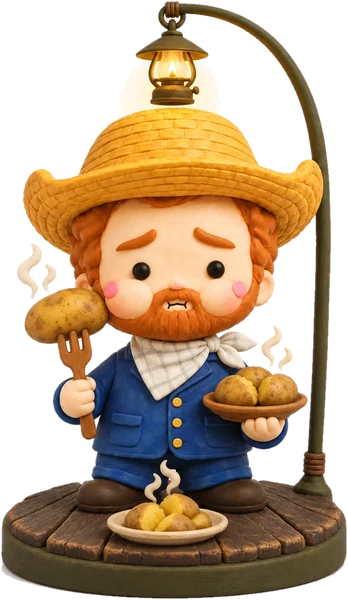
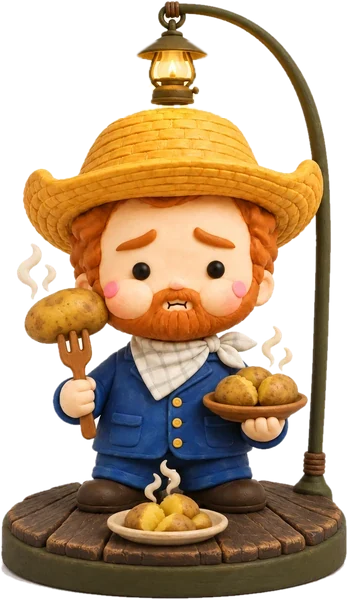
接火雞：收集冊畫面、梵谷重新去背、坐長桌說明改清楚；走格子正式版不再放示範假樹（PARK_VER 20261115v）

Changed region(s): [[0.3448, 0.06, 0.4598, 0.21], [0.546, 0.06, 0.6322, 0.21], [0.4885, 0.15, 0.5172, 0.18]]

diff --git a/catch-demo.html b/catch-demo.html
@@ -76,6 +76,7 @@ button:focus-visible{outline:3px solid var(--ink);outline-offset:2px}
 .stBtns{display:flex;gap:10px;width:100%;max-width:360px}
 .stBtns button{flex:1;height:48px;border-radius:24px;font-size:16px;font-weight:700}
 #stSkip{background:transparent;border:2px solid #6b5432;color:#d9b77a}
+#stBook{background:transparent;border:2px solid #c9a35a;color:#ffcf6b;flex:0 0 auto!important;padding:0 16px}
 #stNext{border:0;background:var(--pumpkin);color:#fff;box-shadow:0 4px 0 var(--leaf)}
 .voice{font-size:12px;color:#9c8460}
 /* 結局 */
@@ -125,6 +126,33 @@ button:focus-visible{outline:3px solid var(--ink);outline-offset:2px}
 @keyframes flash{0%{opacity:1}100%{opacity:0}}
 
 /* 拍合照（臉洞看板） */
+/* 11/15 梵谷公仔收集冊 */
+#btnBook{width:100%;max-width:400px;height:46px;border-radius:23px;border:2px solid #ffcf6b;background:transparent;color:#ffcf6b;font-size:16px;font-weight:800;flex:none}
+#vgBk{position:fixed;inset:0;z-index:90;background:#2a1d14;overflow-y:auto;-webkit-overflow-scrolling:touch;color:#3b2416}
+#vgBk .in{max-width:440px;margin:0 auto;padding:calc(env(safe-area-inset-top,0px) + 14px) 14px calc(env(safe-area-inset-bottom,0px) + 24px)}
+#vgBk .top{display:flex;align-items:center;justify-content:space-between;color:#f3e6c8;margin-bottom:10px}
+#vgBk .top h2{margin:0;font-size:20px}#vgBk .top b{color:#ffcf6b}
+#vgBk .x{border:0;background:rgba(255,255,255,.12);color:#f3e6c8;border-radius:18px;height:36px;padding:0 14px;font-size:15px;font-weight:700}
+#vgBk .sub{color:#c9b38a;font-size:13px;margin:0 0 12px;line-height:1.6}
+#vgBk .grid{display:grid;grid-template-columns:1fr 1fr;gap:10px}
+#vgBk .vgc{background:#fbf6ea;border-radius:14px;padding:10px 10px 12px;text-align:center;position:relative;box-shadow:0 3px 0 #c9a35a}
+#vgBk .vgc.no{background:#e9dfcc;box-shadow:none}
+#vgBk .lv{position:absolute;left:8px;top:8px;background:#e2711d;color:#fff;font-size:11px;font-weight:800;border-radius:10px;padding:2px 8px}
+#vgBk .vgc.no .lv{background:#8a6a4a}
+#vgBk .pic{height:150px;display:flex;align-items:flex-end;justify-content:center;margin:6px 0 4px;position:relative}
+#vgBk .pic img{max-height:150px;max-width:100%}
+#vgBk .vgc.no .pic img{filter:brightness(0);opacity:.22}
+#vgBk .vgc.no .pic:after{content:'?';position:absolute;top:38%;left:50%;transform:translate(-50%,-50%);font-size:44px;font-weight:900;color:#8a6a4a}
+#vgBk .nm{font-weight:900;font-size:14px;line-height:1.35;min-height:38px;display:flex;align-items:center;justify-content:center}
+#vgBk .how{font-size:12px;color:#6b5238;line-height:1.5;margin-top:4px}
+#vgBk .vgbar{width:auto;height:7px;background:#d6c7ab;border-radius:4px;margin:6px 4px 2px;overflow:hidden}#vgBk .vgbar i{display:block;height:100%;background:#e2711d}
+#vgBk .ok{font-size:12px;color:#2f7a3a;font-weight:800;margin-top:4px}
+#vgBk .sm{display:inline-block;margin-top:6px;border:0;border-radius:14px;padding:6px 12px;font-size:12px;font-weight:800;background:#2b4a4d;color:#f3e6c8}
+#vgBk .acts{margin-top:16px;display:flex;flex-direction:column;gap:10px}
+#vgBk .acts button{height:48px;border-radius:24px;border:0;font-size:16px;font-weight:900}
+#vgBk .share{background:#06c755;color:#fff}#vgBk .book{background:#ffcf6b;color:#211a12;box-shadow:0 4px 0 #a8742a}
+#vgBk .note{color:#c9b38a;font-size:12px;text-align:center;margin-top:10px;line-height:1.6}
+#vgPh{position:fixed;inset:0;z-index:95;background:rgba(0,0,0,.85);display:flex;align-items:center;justify-content:center;padding:20px}#vgPh img{max-width:100%;max-height:86vh;border-radius:8px}
 #btnBooth{width:100%;max-width:400px;height:52px;border-radius:26px;border:0;background:#ffcf6b;color:#211a12;font-size:17px;font-weight:900;box-shadow:0 4px 0 #a8742a;flex:none}
 #scrBooth,#scrShot{justify-content:flex-start;overflow-y:auto;background:#211a12;color:#f3e6c8;gap:10px;padding-block:14px}
 .bTop{display:flex;flex-direction:column;align-items:center;gap:2px}.bTop b{font-size:18px;color:#ffcf6b}.bTop span{font-size:13px;color:#c9b38a}
@@ -159,6 +187,9 @@ button:focus-visible{outline:3px solid var(--ink);outline-offset:2px}
 
 #upBox,#upDone{width:100%;max-width:400px;display:flex;flex-direction:column;align-items:center;gap:10px;background:#2b2116;border-radius:14px;padding:14px;box-sizing:border-box;flex:none}
 #upBox[hidden],#upDone[hidden]{display:none!important}
+.upInvite{width:100%;max-width:400px;box-sizing:border-box;background:#3a2a1b;border:2px dashed #ffcf6b;border-radius:16px;padding:12px 14px;color:#f3e6c8;font-size:14px;line-height:1.6;text-align:left;flex:none}
+.upInvite b{display:block;color:#ffcf6b;font-size:16px;margin-bottom:4px}
+#shotUp{background:#ffcf6b;color:#211a12;border:0;height:52px;font-size:17px;font-weight:900;box-shadow:0 4px 0 #a8742a}
 .upTitle{font-size:17px;font-weight:900;color:#ffcf6b}
 #upCut{height:220px;max-width:100%;object-fit:contain;background:radial-gradient(#3a2e20,#1d1710);border-radius:10px}
 .upQuote{font-size:14px;font-weight:700;text-align:center}
@@ -201,7 +232,7 @@ button:focus-visible{outline:3px solid var(--ink);outline-offset:2px}
       <div id="stTxt"></div>
     </div>
     <div id="stDots"></div>
-    <div class="stBtns"><button id="stSkip">略過，直接玩</button></div>
+    <div class="stBtns"><button id="stSkip">略過，直接玩</button><button id="stBook" type="button">📖 收集冊</button></div>
   </section>
 
   <section class="scr" id="scrDraw" hidden>
@@ -251,6 +282,7 @@ button:focus-visible{outline:3px solid var(--ink);outline-offset:2px}
       <button class="redo" id="btnRedo">重畫角色</button>
       <button class="again" id="btnAgain">再玩一次</button>
     </div>
+    <button id="btnBook">📖 我的梵谷公仔收集冊</button>
     <button id="btnEp">🎧 聽這幅畫真正的故事</button>
     <div id="epNote"></div>
   </section>
@@ -278,10 +310,12 @@ button:focus-visible{outline:3px solid var(--ink);outline-offset:2px}
     <img id="shotImg" alt="你的感恩節合照">
     <p class="vgGot" id="vgGot" role="status" hidden></p>
     <p class="bHint">長按照片就可以存到手機</p>
+    <div class="upInvite" id="upInv"><b>🍽 最後一步：坐上大家的長桌</b>
+      <span>你剛剛變成的村民，會帶著你的臉，坐進作品小屋大樹下的感恩節長桌，跟其他玩家一起吃晚餐。大家打開作品小屋都看得到你！</span></div>
+    <button class="bWide" id="shotUp">🍽 我要坐上長桌</button>
     <button class="bWide" id="shotShare" hidden>分享給朋友</button>
-    <button class="bWide" id="shotUp">🍽 坐上作品島大樹旁的長桌</button>
     <div id="upBox" hidden>
-      <div class="upTitle">要坐上長桌的就是他</div>
+      <div class="upTitle">坐上長桌的會是這位（村民＋你的臉）</div>
       <img id="upCut" alt="要坐上長桌的村民">
       <div id="upMsg" class="upQuote"></div>
       <div class="btns"><button class="redo" id="upNo">先不要</button><button class="again" id="upGo">送出，坐上長桌</button></div>
@@ -693,7 +727,7 @@ function boothDraw(ctx,W,H){   // 畫在 (0,0,W,H) 這塊
 /* 2026-11-15 大熊：自拍升級 → ①玩家剛剛畫的角色站在左下角一起入鏡　②梵谷亂入（每局結束伺服器抽一次，重拍不重抽；拍到按完成就收進圖鑑冊） */
 let bVG=null,bVGt=0,bFinal=false;
 function vgLoad(v){bVG=null;if(!v||!v.id)return;const im=new Image();im.onload=()=>{bVG={id:v.id,isNew:v.isNew,img:im}};
-  im.onerror=()=>{if(v.id!=='v1')vgLoad({id:'v1',isNew:v.isNew})};im.src='catch-video/vg/'+v.id+'.webp'}
+  im.onerror=()=>{if(v.id!=='v1')vgLoad({id:'v1',isNew:v.isNew})};im.src='catch-video/vg/'+v.id+'.webp?v=20261115b'}   /* 11/15 v4 燈光白邊、v5 腳中間白塊重新去背，加版本號避免手機讀舊圖 */
 function boothExtras(ctx,W,H){
   if(sprite&&sprite.width){const sh=H*.3,sw=Math.min(W*.34,sh*sprite.width/sprite.height),sh2=sw*sprite.height/sprite.width,x=W*.03,y=H-sh2-H*.02;
     ctx.save();ctx.fillStyle='rgba(0,0,0,.35)';ctx.beginPath();ctx.ellipse(x+sw/2,H-H*.022,sw*.42,H*.014,0,0,7);ctx.fill();
@@ -764,7 +798,7 @@ $('#bDone').onclick=()=>{if(bStream){bSnap();if(bSelf&&bVG){boothRender();return
   const url=c.toDataURL('image/jpeg',.9);$('#shotImg').src=url;
   try{c.toBlob(b=>{shotBlob=b;const f=b&&new File([b],'otto2-thanksgiving.jpg',{type:'image/jpeg'});$('#shotShare').hidden=!(f&&navigator.canShare&&navigator.canShare({files:[f]}))},'image/jpeg',.9)}catch(_){}
   if(bVG)vgClaim(c);else $('#vgGot').hidden=true;
-  $('#scrBooth').hidden=true;$('#scrShot').hidden=false;$('#scrShot').scrollTop=0;$('#upBox').hidden=true;$('#upDone').hidden=true;$('#shotUp').hidden=false;beep(1800,.04,'square',.05);setTimeout(()=>beep(900,.08,'square',.04),60)};
+  $('#scrBooth').hidden=true;$('#scrShot').hidden=false;$('#scrShot').scrollTop=0;$('#upBox').hidden=true;$('#upDone').hidden=true;$('#shotUp').hidden=$('#upInv').hidden=false;beep(1800,.04,'square',.05);setTimeout(()=>beep(900,.08,'square',.04),60)};
 /* 11/15 大熊：先坐上長桌，坐好之後才告訴他「梵谷跟你回家了，收進公仔收集冊」；沒坐長桌就在離開合照頁時告訴他 */
 let VGR=null,VGB=null;
 const VG_NM={v3:'大理石雕像梵谷',v4:'吃馬鈴薯的梵谷',v5:'頂著空盤想抓火雞的梵谷',v6:'感恩節慶祝梵谷'};
@@ -778,7 +812,9 @@ function vgCount(bk,gotNow){if(!bk)return 0;return VG_ORDER.filter(k=>(bk[k]&&bk
 function vgReveal(){if(!VGR||VGR.shown)return;VGR.shown=true;const j=VGR;
   const t=j.isNew?'🎁 還有一個小驚喜！<br><span style="font-size:15px;font-weight:600">剛剛亂入的「'+(VG_NM[j.id]||'梵谷')+'」偷偷跟你回家了，收進你的<b>梵谷公仔收集冊</b>（'+vgCount(VGB,j.id)+'/4）<br><span style="color:#8a6a4a">'+vgNext(VGB,j.id)+'</span></span>'
     :'梵谷又來陪你拍照了<br><span style="font-size:15px;font-weight:600">收集冊 '+vgCount(VGB,j.id)+'/4　<span style="color:#8a6a4a">'+vgNext(VGB,j.id)+'</span></span>';
-  dnCard(t,false);if(j.isNew){beep(880,.08);setTimeout(()=>beep(1320,.14),90)}}
+  dnCard(t,false);if(j.isNew){beep(880,.08);setTimeout(()=>beep(1320,.14),90)}
+  const d=document.getElementById('dnCard'),cl=d&&d.querySelector('button');if(cl){const b=document.createElement('button');b.type='button';b.textContent='📖 打開收集冊看看';
+    b.style.cssText='display:block;width:100%;background:#e2711d;color:#fff;border:0;border-radius:22px;padding:10px;font:inherit;font-weight:800;margin-bottom:8px';b.onclick=()=>{d.remove();vgBookOpen()};cl.parentNode.insertBefore(b,cl)}}
 async function vgClaim(shot){const b=$('#vgGot');b.hidden=true;VGR=null;try{const tok=await getTok();if(!tok)return;
   let photo='';try{const k=360/shot.width,t=document.createElement('canvas');t.width=360;t.height=Math.round(shot.height*k);t.getContext('2d').drawImage(shot,0,0,t.width,t.height);photo=t.toDataURL('image/jpeg',.8)}catch(_){}   // 11/15 大熊選 C：這張合照之後放在圖鑑卡背面
   const j=await (await fetch(NOTIFY_URL+'/catch/vg',{method:'POST',body:JSON.stringify({accessToken:tok,photo})})).json();if(!j.ok||!j.id)return;
@@ -826,6 +862,33 @@ async function ctSend(N){vgLoad(null);const box=$('#ctBox');box.innerHTML='<p cl
   try{const r=await fetch(NOTIFY_URL+'/catch/end',{method:'POST',body:JSON.stringify({accessToken:tok,served:N,total:G.total,hi:G.best,sec:Math.floor(G.t),char:N?ctThumb():''})});
     const j=await r.json();if(!j.ok)throw new Error(j.error||('連線失敗 '+r.status));ctLast=j;VGB=j.vg&&j.vg.book||VGB;vgLoad(j.vg);helpLoad(j.helpers);ctRender(j);$('#ctGoal').innerHTML=ctBar(j)}
   catch(e){box.innerHTML='<p class="ctNote">成績沒存成功（'+ctEsc(e.message||'網路不穩')+'），下一局會照常記錄。</p>'}}
+
+/* ══ 11/15 梵谷公仔收集冊：四格（拿到＝彩色＋收到日期＋可看合照；沒拿到＝剪影＋怎麼拿＋進度），下面分享、預約 ══ */
+const VG_HOW={v4:'第一次玩完，自拍就拿到',v5:'自己累積帶回 30 隻火雞（不管玩幾局）',v3:'到「畫框背後」聽完梵谷講座 4 集',v6:'全店一起帶回 3,000 隻火雞，玩過的人都拿得到'};
+const BOOK_LINK='https://liff.line.me/2010906803-FMDYktUN?go=book';
+async function vgBookOpen(){let d=document.getElementById('vgBk');if(!d){d=document.createElement('div');d.id='vgBk';document.body.appendChild(d)}
+  d.hidden=false;d.innerHTML='<div class="in"><div class="top"><h2>梵谷公仔收集冊</h2><button class="x" type="button">關閉</button></div><p class="sub">讀取中…</p></div>';d.querySelector('.x').onclick=()=>d.hidden=true;
+  let j=null,err='';try{const tok=await getTok();if(tok){const r=await fetch(NOTIFY_URL+'/catch/book',{method:'POST',body:JSON.stringify({accessToken:tok})});j=await r.json();if(!j.ok){err=j.error||'讀不到';j=null}}else err='從 LINE 打開遊戲，才看得到你自己的收集冊'}catch(e){err='網路不穩，等一下再打開看看'}
+  const bk=(j&&j.book)||{},n=j?j.n:0,day=t=>{const x=new Date(+t);return (x.getMonth()+1)+'/'+x.getDate()};
+  const pct=(a,b)=>Math.max(0,Math.min(100,Math.round((+a||0)/(+b||1)*100)));
+  const cards=VG_ORDER.map((id,i)=>{const b=bk[id]||{},got=!!b.got;let prog='';
+    if(!got&&j){if(id==='v5')prog='<div class="vgbar"><i style="width:'+pct(b.sum,b.need)+'%"></i></div><div class="how">現在 '+(b.sum||0)+' / '+b.need+' 隻</div>';
+      if(id==='v3')prog='<div class="vgbar"><i style="width:'+pct(b.eps,b.need)+'%"></i></div><div class="how">已聽完 '+(b.eps||0)+' / '+b.need+' 集</div><button class="sm" type="button" data-ep>🎧 去聽講座</button>';
+      if(id==='v6')prog='<div class="vgbar"><i style="width:'+pct(b.total,b.goal)+'%"></i></div><div class="how">全店 '+ctNum(b.total)+' / '+ctNum(b.goal)+' 隻</div>'}
+    return '<div class="vgc'+(got?'':' no')+'"><span class="lv">第 '+(i+1)+' 關</span><div class="pic"><img src="catch-video/vg/'+id+'.webp?v=20261115b" alt=""></div><div class="nm">'+(got?VG_NM[id]:'？？？')+'</div>'+
+      (got?'<div class="ok">✓ '+(b.at?day(b.at)+' ':'')+'收進來了</div>'+(b.ph?'<button class="sm" type="button" data-ph="'+ctEsc(b.ph)+'">看那天的合照</button>':''):'<div class="how">'+VG_HOW[id]+'</div>'+prog)+'</div>'}).join('');
+  d.innerHTML='<div class="in"><div class="top"><h2>梵谷公仔收集冊 <b>'+n+'/4</b></h2><button class="x" type="button">關閉</button></div>'+
+    '<p class="sub">'+(err?ctEsc(err):n>=4?'四款都收齊了！🎉':'每過一關，自拍時就會有一隻新的梵谷跑進來亂入。')+'</p><div class="grid">'+cards+'</div>'+
+    '<div class="acts"><button class="share" type="button">分享給朋友一起接火雞</button><button class="book" type="button">想自己畫一張？預約來畫室上課</button></div>'+'</div>';
+  d.querySelector('.x').onclick=()=>d.hidden=true;
+  d.querySelectorAll('[data-ph]').forEach(b=>b.onclick=()=>{const v=document.createElement('div');v.id='vgPh';v.innerHTML='<img alt="">';v.querySelector('img').src=b.dataset.ph;v.onclick=()=>v.remove();document.body.appendChild(v)});
+  d.querySelectorAll('[data-ep]').forEach(b=>b.onclick=()=>{location.href='art.html?hall=1&hroom=vangogh'});
+  d.querySelector('.share').onclick=async()=>{const url=location.origin+location.pathname,text='我在玩「接火雞」，幫梵谷筆下的馬鈴薯一家把火雞接回家！我的梵谷公仔收集冊 '+n+'/4，你也來玩：';
+    try{if(window.liff&&liff.isApiAvailable&&liff.isApiAvailable('shareTargetPicker')){await liff.shareTargetPicker([{type:'text',text:text+'\n'+url}]);return}}catch(_){}
+    try{if(navigator.share){await navigator.share({title:'感恩節接火雞',text,url});return}}catch(_){return}
+    try{await navigator.clipboard.writeText(text+'\n'+url);dnCard('連結複製好了，貼給朋友就可以一起玩',false)}catch(_){dnCard(ctEsc(url),false)}};
+  d.querySelector('.book').onclick=()=>{location.href=BOOK_LINK}}
+$('#btnBook').onclick=vgBookOpen;$('#stBook').onclick=vgBookOpen;
 /* 登入回來：把登入前那局補送出去（30 分鐘內有效） */
 const CT_PEND='otto2-ct-pending';
 (async()=>{let p=null;try{p=JSON.parse(localStorage.getItem(CT_PEND)||'null')}catch(_){}
@@ -869,11 +932,11 @@ $('#upGo').onclick=async()=>{const e=$('#upErr');
       try{localStorage.setItem(DN_PEND,JSON.stringify(p))}catch(_){throw new Error('手機空間不夠，存不了照片，請用 LINE 打開遊戲再試')}
       btn.textContent='先登入 LINE…';liff.login({redirectUri:location.href.split('#')[0]});return}
     const j=await dnSend(p);
-    $('#upBox').hidden=true;$('#upDone').hidden=false;$('#shotUp').hidden=true;$('#upLeft').textContent='你已經坐上作品島大樹旁的長桌了'+(j.left>0?'（還可以再坐 '+j.left+' 個位子）':'');
+    $('#upBox').hidden=true;$('#upDone').hidden=false;$('#shotUp').hidden=$('#upInv').hidden=true;$('#upLeft').textContent='你已經坐上作品島大樹旁的長桌了'+(j.left>0?'（還可以再坐 '+j.left+' 個位子）':'');
     beep(660,.1);setTimeout(()=>beep(880,.16),90);setTimeout(vgReveal,1600)}
   catch(err){e.textContent=err.message}
   btn.disabled=false;btn.textContent='送出，坐上長桌'};
-$('#shotRe').onclick=()=>{$('#upBox').hidden=true;$('#upDone').hidden=true;$('#shotUp').hidden=false;$('#scrShot').hidden=true;$('#scrBooth').hidden=false;boothRender()};
+$('#shotRe').onclick=()=>{$('#upBox').hidden=true;$('#upDone').hidden=true;$('#shotUp').hidden=$('#upInv').hidden=false;$('#scrShot').hidden=true;$('#scrBooth').hidden=false;boothRender()};
 $('#shotBack').onclick=()=>{$('#scrShot').hidden=true;scrEnd.hidden=false;vgReveal()};
 window.addEventListener('resize',()=>{if(!$('#scrBooth').hidden)boothRender()});
 $('#btnEp').onclick=()=>{location.href='art.html?hall=1&hroom=vangogh'};   /* 2026-11-15 接上真的「畫框背後」：走進大廳 → 直接打開梵谷展間（聽完的集數會算進雕像梵谷） */
